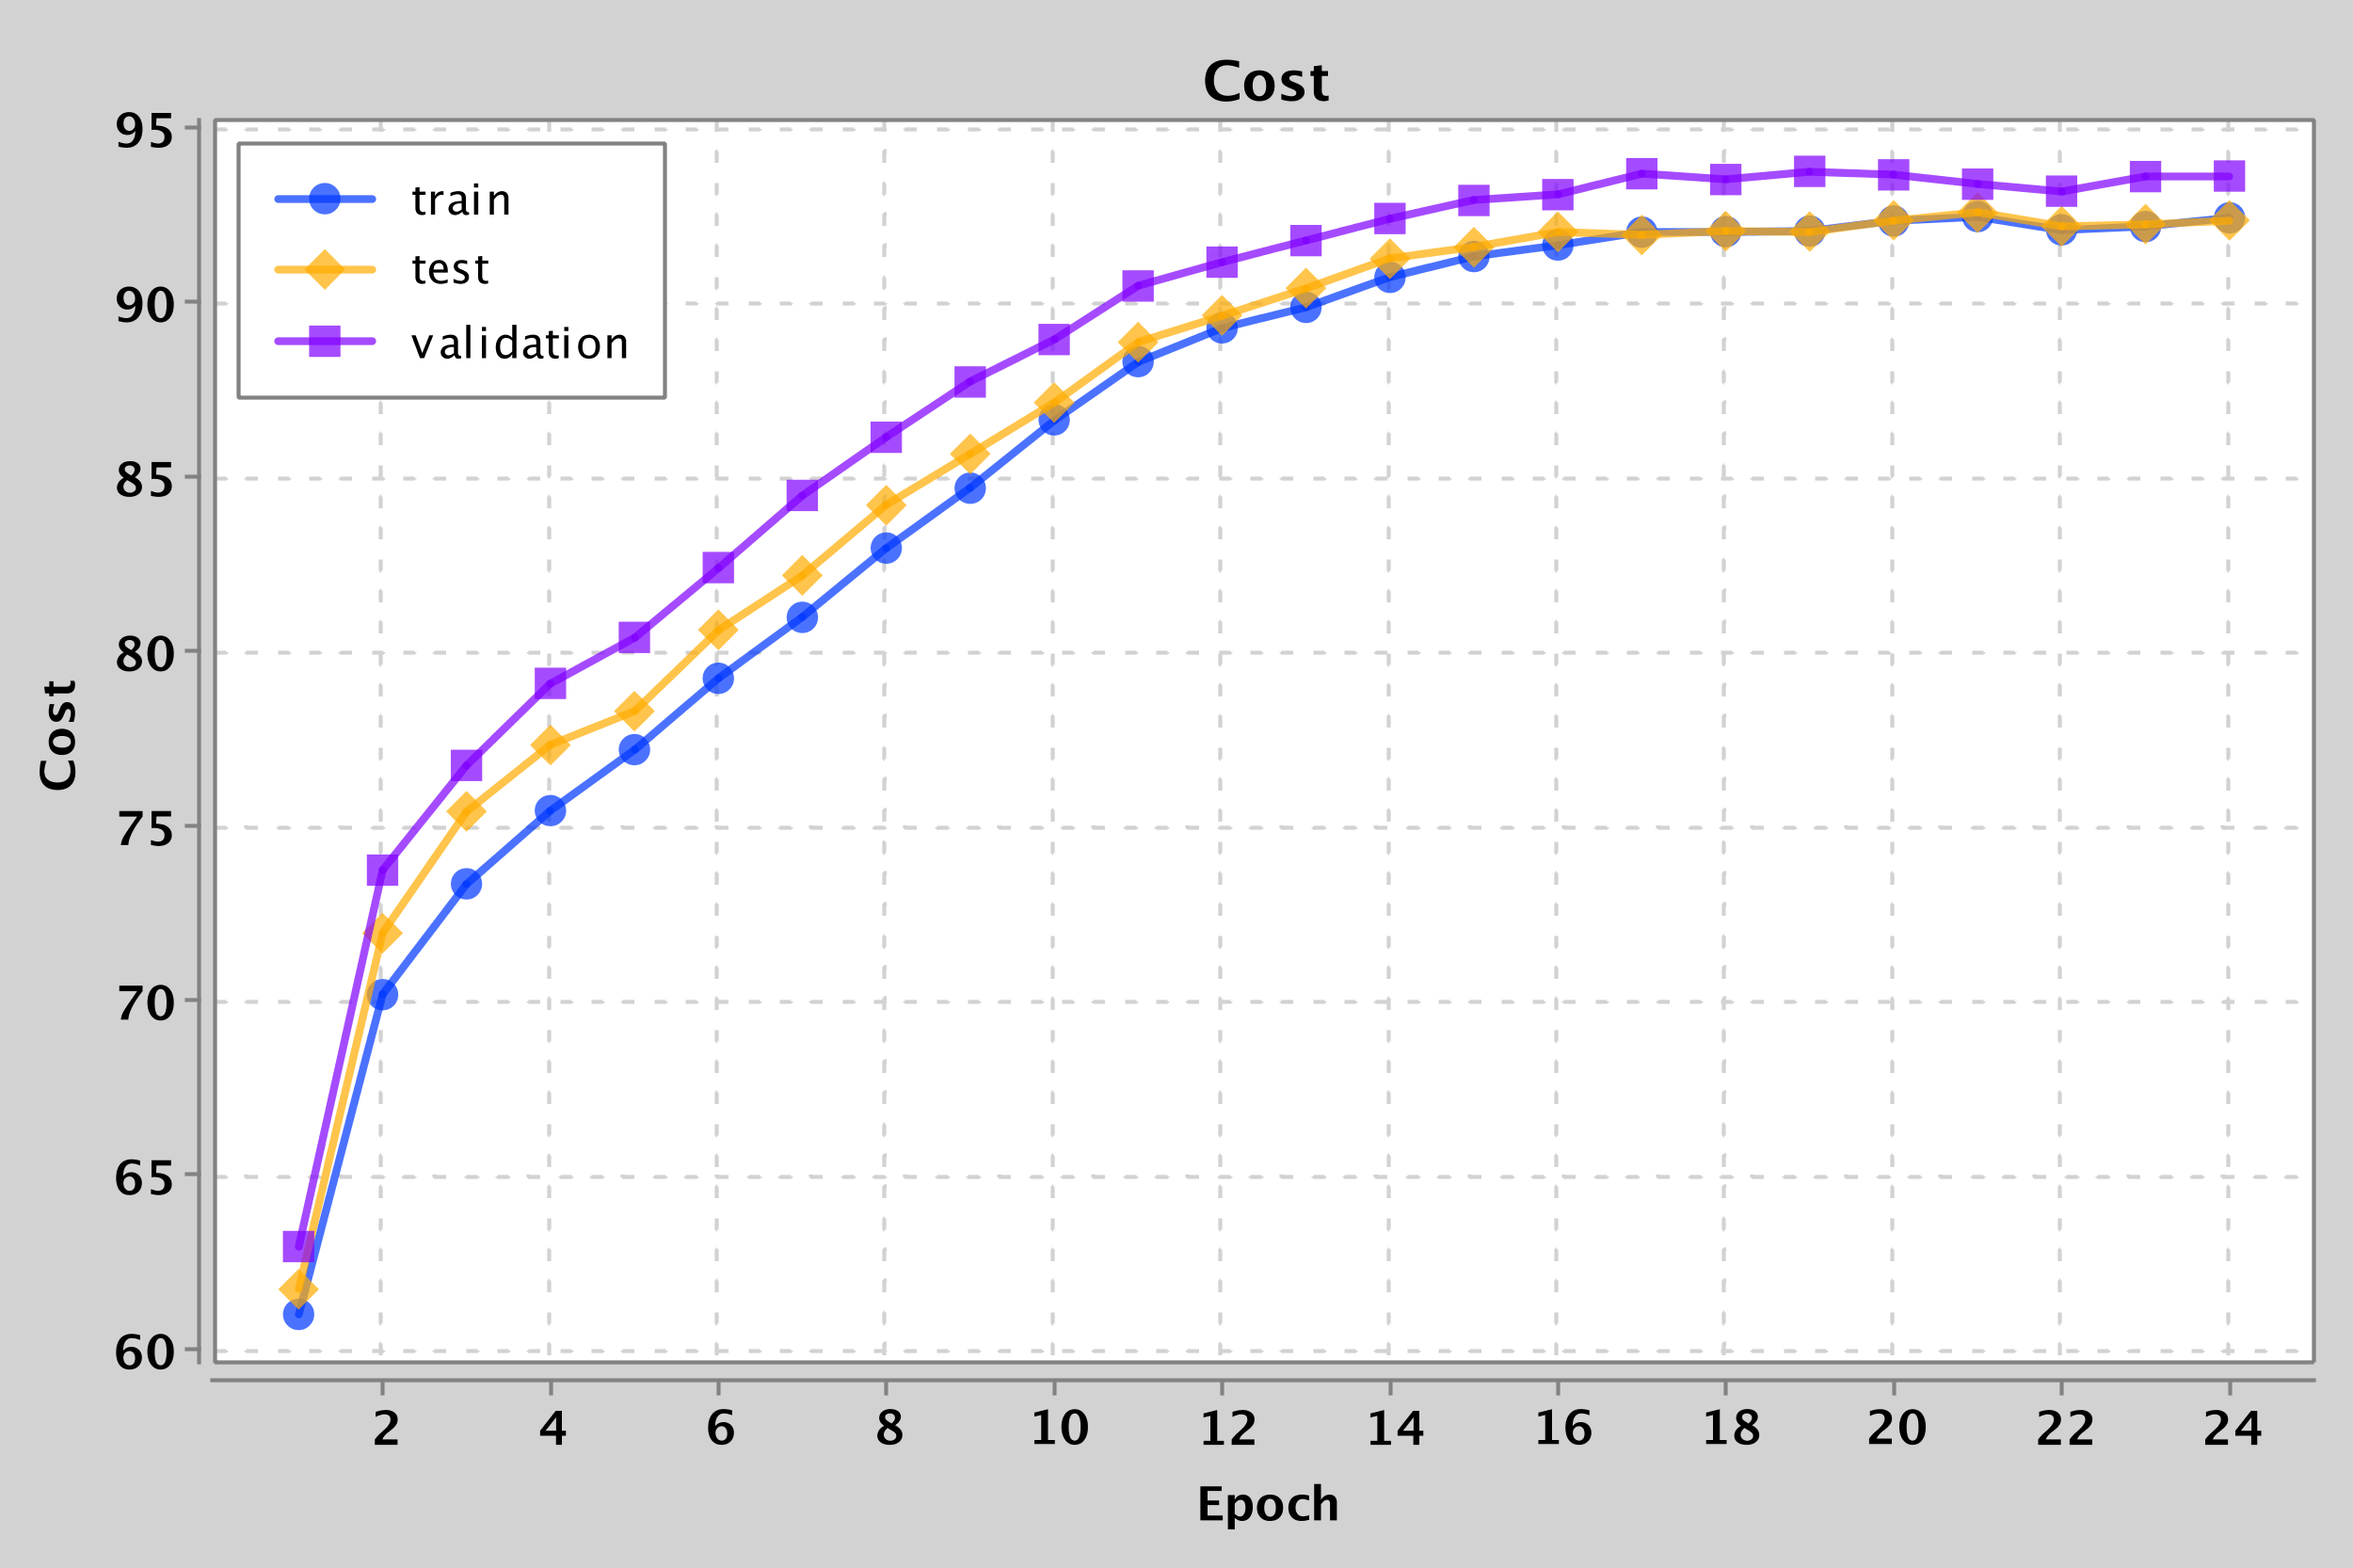
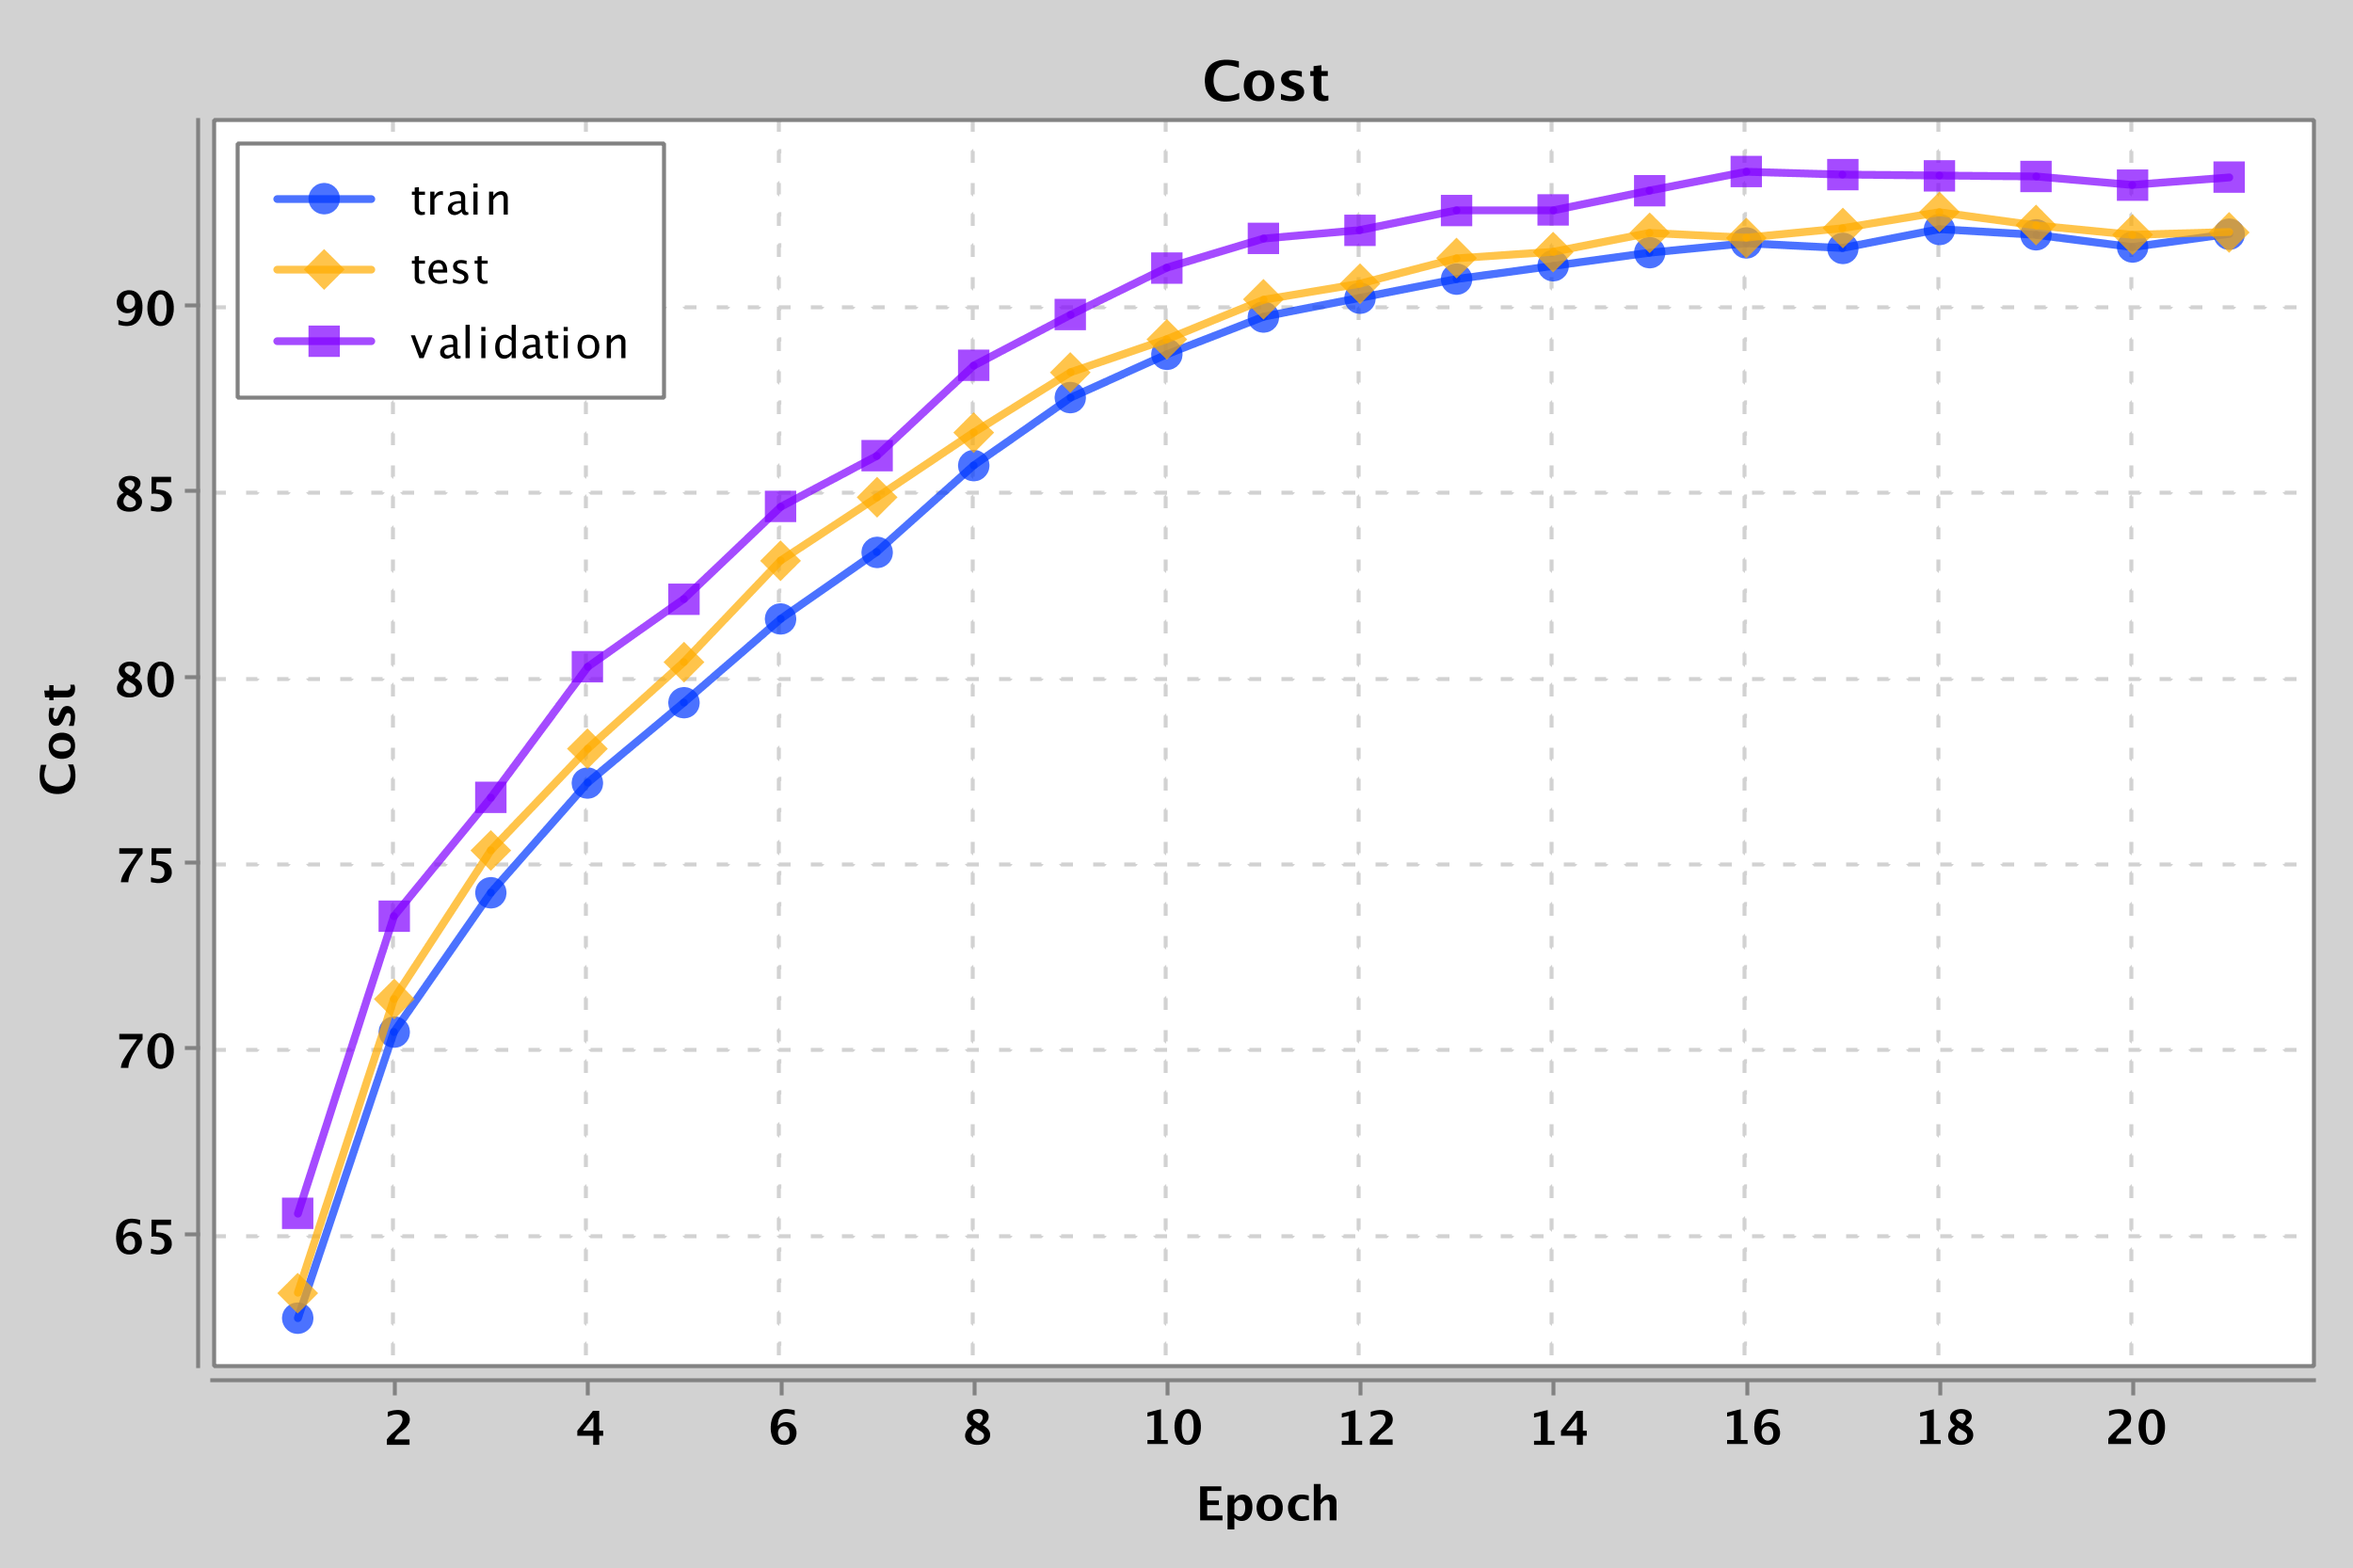
* SGD with momentum

diff --git a/src/main/java/ru/kuptservol/jml/layer/LinearLayer.java b/src/main/java/ru/kuptservol/jml/layer/LinearLayer.java
@@ -20,6 +20,8 @@ public class LinearLayer implements Layer {
     @Builder.Default
     private double learningRate = 0.1;
     @Builder.Default
+    private double momentumCoeff = 0;
+    @Builder.Default
     private Dropout dropout = Optimizations.DROPOUT(0);
     @Builder.Default
     private WeightInitializer weightInitializer = WeightInitializers.GAUSSIAN(1);
@@ -30,6 +32,7 @@ public class LinearLayer implements Layer {
     private final int out;
 
     private double[][] weights;
+    private double[][] dwWithMomentum;
     private double[] prevLayerActivations;
     private double[][] deltaWeights;
     private double[] deltaBiases;
@@ -37,17 +40,27 @@ public class LinearLayer implements Layer {
     private double[] z;
 
     @Builder
-    public LinearLayer(int in, int out, Double learningRate, Double dropout, WeightInitializer weightInitializer, ActivationFunction activationFunction) {
+    public LinearLayer(
+            int in,
+            int out,
+            Double learningRate,
+            Double dropout,
+            WeightInitializer weightInitializer,
+            ActivationFunction activationFunction,
+            Double momentumCoeff)
+    {
         this.in = in;
         this.out = out;
         this.weightInitializer = Optional.ofNullable(weightInitializer).orElse(this.weightInitializer);
         this.weights = this.weightInitializer.initWeights(in, out);
+        this.dwWithMomentum = new double[in][out];
         this.deltaWeights = new double[in][out];
         this.biases = this.weightInitializer.initBiases(out);
         this.deltaBiases = new double[out];
         this.prevLayerActivations = new double[in];
         this.z = new double[out];
         this.learningRate = Optional.ofNullable(learningRate).orElse(this.learningRate);
+        this.momentumCoeff = Optional.ofNullable(momentumCoeff).orElse(this.momentumCoeff);
         this.activationFunction = Optional.ofNullable(activationFunction).orElse(this.activationFunction);
         this.dropout = Optional.ofNullable(dropout).map(Optimizations::DROPOUT).orElse(this.dropout);
     }
@@ -83,6 +96,7 @@ public class LinearLayer implements Layer {
         double[][] dCDw = M.dotR(prevLayerActivations, dCDa);
 
         M.plus(deltaBiases, dCDb);
+        M.plus(deltaWeights, dCDw);
         M.plus(deltaWeights, dCDw);
 
         return M.dotR(weights, dCDa);
@@ -132,7 +146,9 @@ public class LinearLayer implements Layer {
     }
 
     private void updateBatchWeights(int batchSize, Regularization reg) {
-        M.F(weights, deltaWeights, (w, dw) -> w - reg.reg(learningRate, batchSize, w) - dw * (learningRate / batchSize));
+        M.F(dwWithMomentum, deltaWeights, (momentum, dw) -> momentum * momentumCoeff - (1.0 / batchSize) * dw * learningRate);
+
+        M.F(weights, dwWithMomentum, (w, dwWithMomentum) -> w - reg.reg(learningRate, batchSize, w) + dwWithMomentum);
         M.F(biases, deltaBiases, (b, db) -> b - db * (learningRate / batchSize));
     }
 

diff --git a/src/main/java/ru/kuptservol/jml/model/Models.java b/src/main/java/ru/kuptservol/jml/model/Models.java
@@ -20,7 +20,7 @@ public class Models {
         Model.ModelBuilder modelBuilder = new Model.ModelBuilder();
 
         Layers layers = Layers
-                .linear(0, WeightInitializers.GAUSSIAN(1), size)
+                .linear(0, WeightInitializers.GAUSSIAN(1), 0, size)
                 .build();
 
         modelBuilder.layers(layers);
@@ -33,7 +33,20 @@ public class Models {
         Model.ModelBuilder modelBuilder = new Model.ModelBuilder();
 
         Layers layers = Layers
-                .linear(0, weightInitializer, size)
+                .linear(0, weightInitializer, 0, size)
+                .build();
+
+        modelBuilder.layers(layers);
+        modelBuilder.adaptiveLearningRate(Optimizations.CONST_LEARNING_RATE(learningRate));
+
+        return modelBuilder;
+    }
+
+    public static Model.ModelBuilder linear(Double learningRate, WeightInitializer weightInitializer, Double momentumCoEff, Integer... size) {
+        Model.ModelBuilder modelBuilder = new Model.ModelBuilder();
+
+        Layers layers = Layers
+                .linear(0, weightInitializer, momentumCoEff, size)
                 .build();
 
         modelBuilder.layers(layers);
@@ -46,7 +59,7 @@ public class Models {
         Model.ModelBuilder modelBuilder = new Model.ModelBuilder();
 
         Layers layers = Layers
-                .linear(dropout, WeightInitializers.GAUSSIAN(1), size)
+                .linear(dropout, WeightInitializers.GAUSSIAN(1), 0, size)
                 .build();
 
         modelBuilder.layers(layers);
@@ -59,7 +72,7 @@ public class Models {
         Model.ModelBuilder modelBuilder = new Model.ModelBuilder();
 
         Layers layers = Layers
-                .linear(0, WeightInitializers.GAUSSIAN(1), size)
+                .linear(0, WeightInitializers.GAUSSIAN(1), 0, size)
                 .build();
 
         modelBuilder.layers(layers);

diff --git a/src/main/java/ru/kuptservol/jml/test/MNISTest.java b/src/main/java/ru/kuptservol/jml/test/MNISTest.java
@@ -179,4 +179,24 @@ public class MNISTest {
 
         model.train(mnist);
     }
+
+    @Test
+    public void learnWithCrossEntropy100L2RegEarlyStopSharpWeightInitWithMomentum_0_5() throws IOException {
+        DataSet mnist = DataSets.MNIST(Paths.get("/opt/jml/mnist"));
+
+        PlotGraphResultHandler graph = PlotGraphResultHandler
+                .cons(Paths.get("./graph/learn_cross_entropy_100_neurons_l2_reg_early_stop_sharp_weight_init_with_momentum_0_5.png"));
+
+        Model model = Models.linear(0.01, WeightInitializers.SHARP_GAUSSIAN, 0.5, 784, 100, 10)
+                .trainer(Trainers.SGD(100, 100).build())
+                .resultF(OutputFunctions.MAX_INDEX)
+                .earlyStopO(Optional.of(Optimizations.EARLY_STOPPING(5)))
+                .costFunction(CostFunctions.CROSS_ENTROPY.resultHandler(ResultHandlers.EMPTY).build())
+                .metrics(Metrics.ACCURACY.build())
+                .metricResultHandler(ResultHandlers.GRAPH_AND_LOG(graph))
+                .regularization(Optimizations.L2_REG(5))
+                .build();
+
+        model.train(mnist);
+    }
 }

diff --git a/src/main/java/ru/kuptservol/jml/layer/Layers.java b/src/main/java/ru/kuptservol/jml/layer/Layers.java
@@ -25,6 +25,7 @@ public class Layers implements Serializable {
     public static LayersBuilder linear(
             double dropout,
             WeightInitializer weightInitializer,
+            double momentumCoEff,
             Integer... size)
     {
         if (size.length < 2) {
@@ -38,6 +39,7 @@ public class Layers implements Serializable {
         LinearLayer first = LinearLayer.builder()
                 .in(size[0])
                 .out(size[1])
+                .momentumCoeff(momentumCoEff)
                 .dropout(dropout)
                 .build();
 
@@ -46,6 +48,7 @@ public class Layers implements Serializable {
         for (int i = 2; i < size.length; i++) {
             LinearLayer.LinearLayerBuilder nextLB = LinearLayer.builder()
                     .in(size[i - 1])
+                    .momentumCoeff(momentumCoEff)
                     .weightInitializer(weightInitializer)
                     .out(size[i]);
 

diff --git a/src/main/java/ru/kuptservol/jml/model/Model.java b/src/main/java/ru/kuptservol/jml/model/Model.java
@@ -37,7 +37,7 @@ public class Model implements Serializable {
 
     @Builder.Default
     public Layers layers = Layers
-            .linear(0, WeightInitializers.GAUSSIAN(1), 10, 1)
+            .linear(0, WeightInitializers.GAUSSIAN(1), 0, 10, 1)
             .build();
 
     @Builder.Default

diff --git a/docs/optimizations.md b/docs/optimizations.md
@@ -43,9 +43,8 @@ When we dropout different sets of neurons, it's rather like we're training diffe
 And so the dropout procedure is like averaging the effects of a very large number of different networks. 
 The different networks will overfit in different ways, and so, hopefully, the net effect of dropout will be to reduce overfitting.
 
-   
 ##### Increasing train data size
-##### Hyper-parameters auto tunning
+##### Hyper-parameters auto tuning 
 ##### Learning rate auto tuning
 
 Start from some initial rather small value -> increase it and try until validation cost decreases.
@@ -56,4 +55,5 @@ It's likely that the weights are badly wrong.
 And so it's best to use a large learning rate that causes the weights to change quickly. 
 Later, we can reduce the learning rate as we make more fine-tuned adjustments to our weights.
 
-##### Epochs batch calculating parallellization
+##### Epochs batch calculating parallelization
+##### SGD with momentum

diff --git a/docs/train.md b/docs/train.md
@@ -31,3 +31,5 @@ In stochastic gradient descent we don't want to wait all inputs proceed to make 
         m.layers.forEach(layer -> layer.onBatchFinished(trainMiniBatch.size));
     } 
 ```
+###### Hessian
+###### Momentum-based gradient descent
